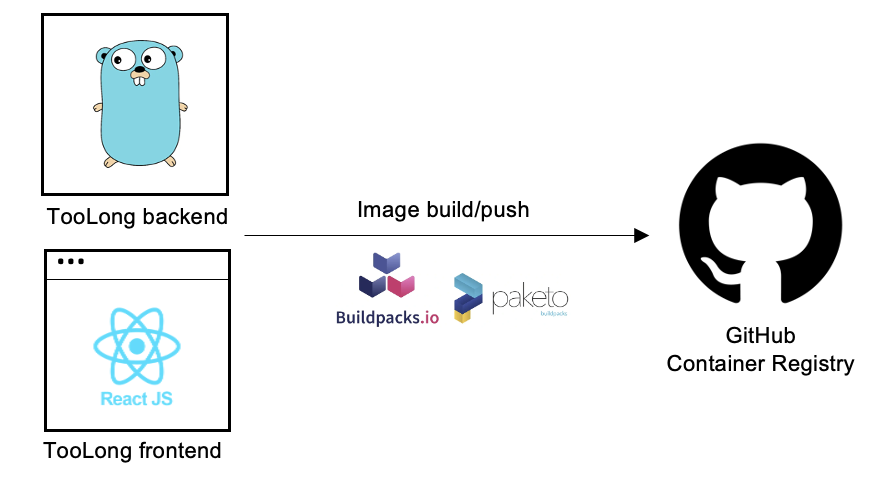
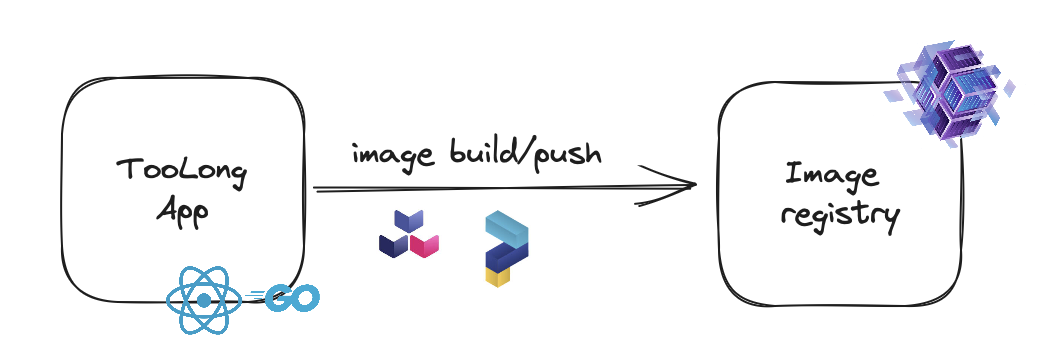
update doc - deploy k8s

Changed region(s): [[0.0305, 0.0, 0.9774, 0.9724], [0.6719, 0.6989, 0.7025, 0.7901], [0.6719, 0.2735, 0.7025, 0.3646]]

diff --git a/README.md b/README.md
@@ -2,13 +2,13 @@
 
 ## Overview 
 
-This is a TL;DR (Too Long Didn't Read) and TL;DW (Too Long Didn't Watch) application made in Go and React.js using the Scaleway Cloud services.
+This is a TL;DR (Too Long Didn't Read) and TL;DW (Too Long Didn't Watch) application made in Go and React.js.
 
-<img src="images/Application.png" width="400" height="300">
+<img src="images/app.png" width="400" height="300"> 
 
-This app uses PostgreSQL Database, the Github Container registry, the Kapsule Kubernetes Cluster and the managed services of the Scaleway Cloud Infrastructure through the deployment.
 
-<img src="images/Architecture.png" width="500" height="200">
+<img src="images/architecture.png" width="500" height="200">
+
 
 ### Understand the Go Application
 
@@ -39,27 +39,66 @@ To set up the frontend application locally, run:
 
 The container images were built with [Cloud-Native Buildpacks](https://buildpacks.io) (CNB) and [Paketo Buildpacks](https://paketo.io).
 
-No need to write Dockerfiles anymore: using CNB you get
-secured up-to-date container images out of your source code.
-
-<img src="images/Containers.png" width="400" height="200">
+<img src="images/containers.png" width="500" height="200">
 
 ### Build and Push the Docker images to the OCI Registry 
 
-The OCI Container Regisry is where your Docker images are managed. The GitHub Container Registry is used for this project.
+The OCI Container Regisry is where your Docker images are managed. The Scaleway Container Registry is used for this project.
 
-Run `build.sh` script to build and push the helidon-se image into the repository
+Run `build.sh` script to build and push the images into the repository
 
 ```
-        ./build.sh
+./build.sh
 ```
 
 In a couple of minutes, you should have successfully built and pushed the images into the OCI repository.
 
-<img src="images/Registry.png" width="700" height="150">
-
-
 ## Deployment on Kubernetes 
+
+
+
+1. Run the `deploy.sh` script
+
+  ```
+  ./deploy.sh
+  ```
+If everything runs correctly the script will output something like this.
+<img src="images/deploy-output.png" width="600" height="150">
+
+2. Check the status using the following commands
+
+The following command returns the Kubernetes service of MyToDo application with a load balancer exposed through an external API
+  ```
+  services
+  ```
+This will run `kubectl get services` in the background, but the setup script creates aliases for ease of use
+
+<img src="images/services-output.png" width="500" height="90">
+
+3. The following command returns all the pods running in your kubernetes cluster:
+  ```
+  pods
+  ```
+This will run `kubectl get pods` in the background, but the setup script creates aliases for ease of use
+
+Open the website
+  ```
+  http://frontend.51.159.8.169.nip.io
+  ```
+
+
+<img src="images/pods-output.png" width="500" height="200">
+
+If you make changes to the image, you need to delete the service and the pods by running undeploy.sh then redo Steps 2 & 3.
+
+ Run the `undeploy.sh` script
+  ```
+  ./undeploy.sh
+  ```
+
+
+
+
 
 
 
